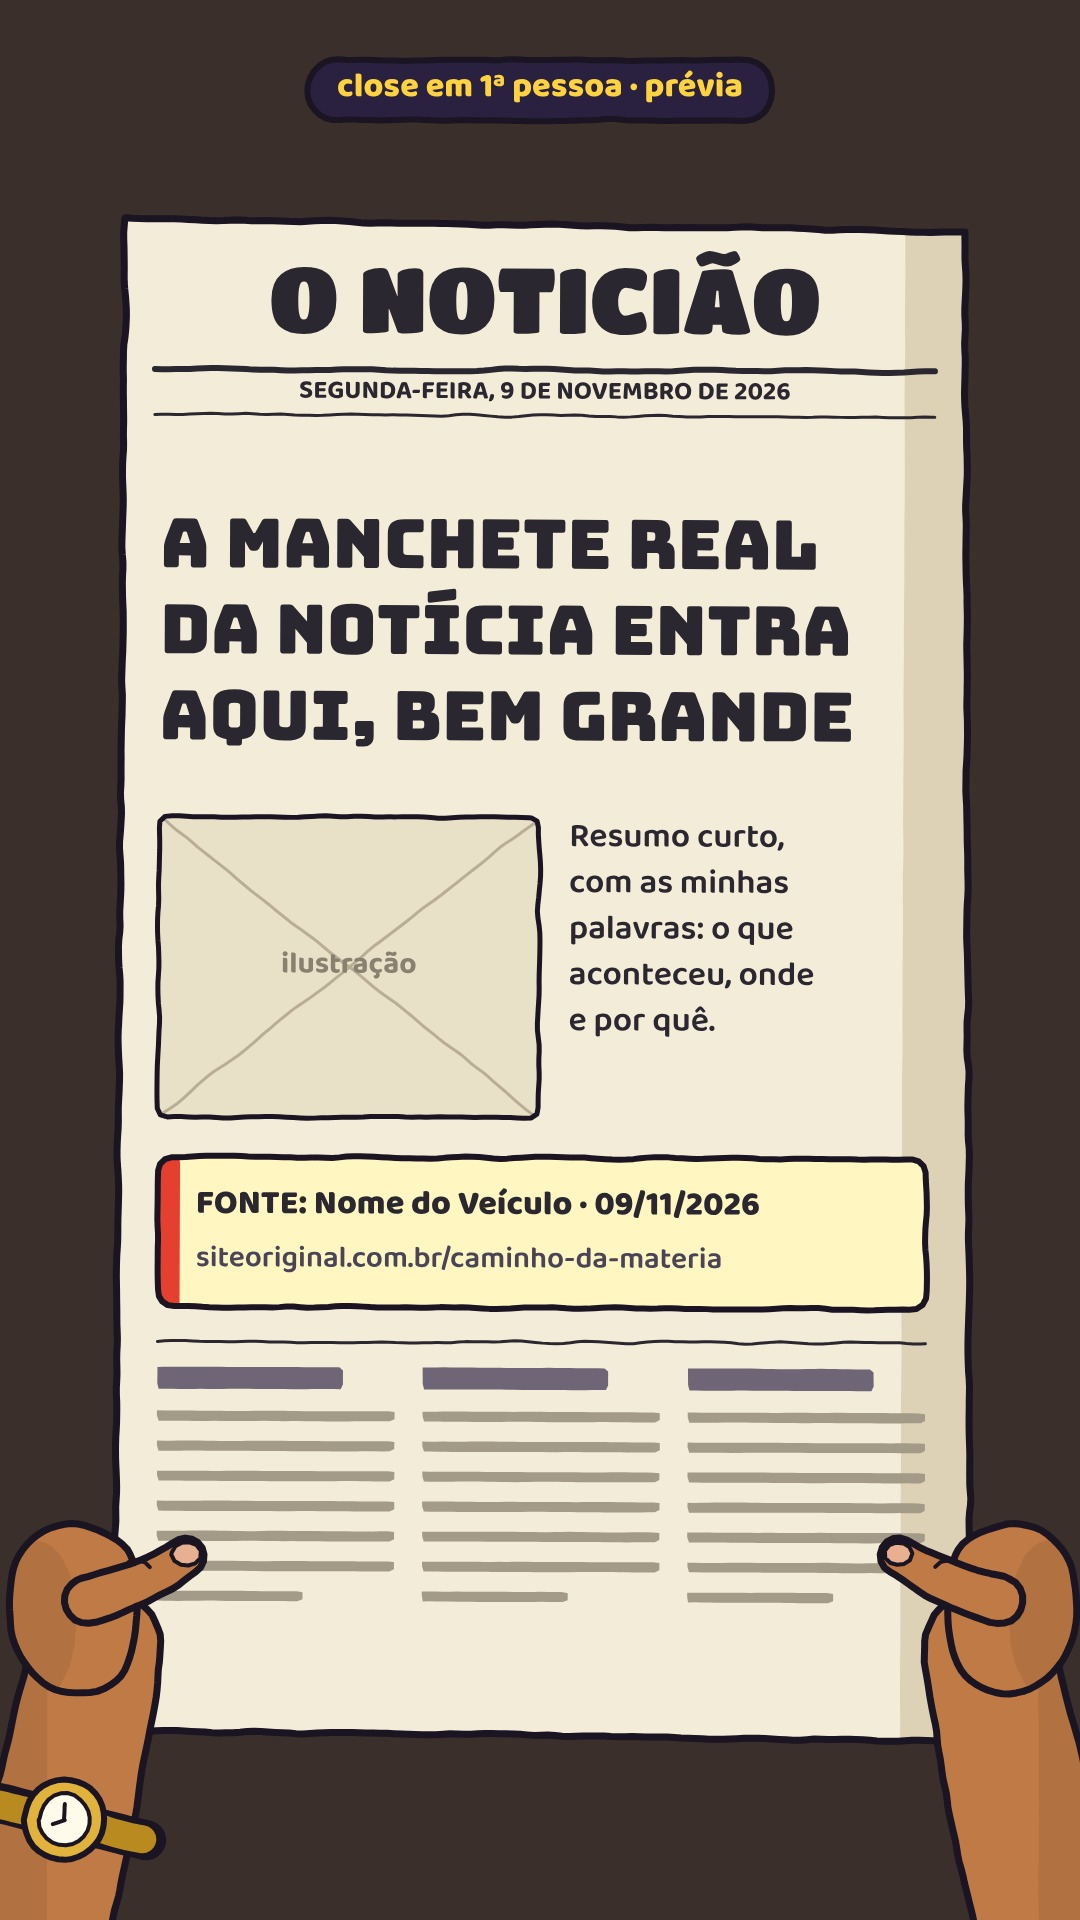
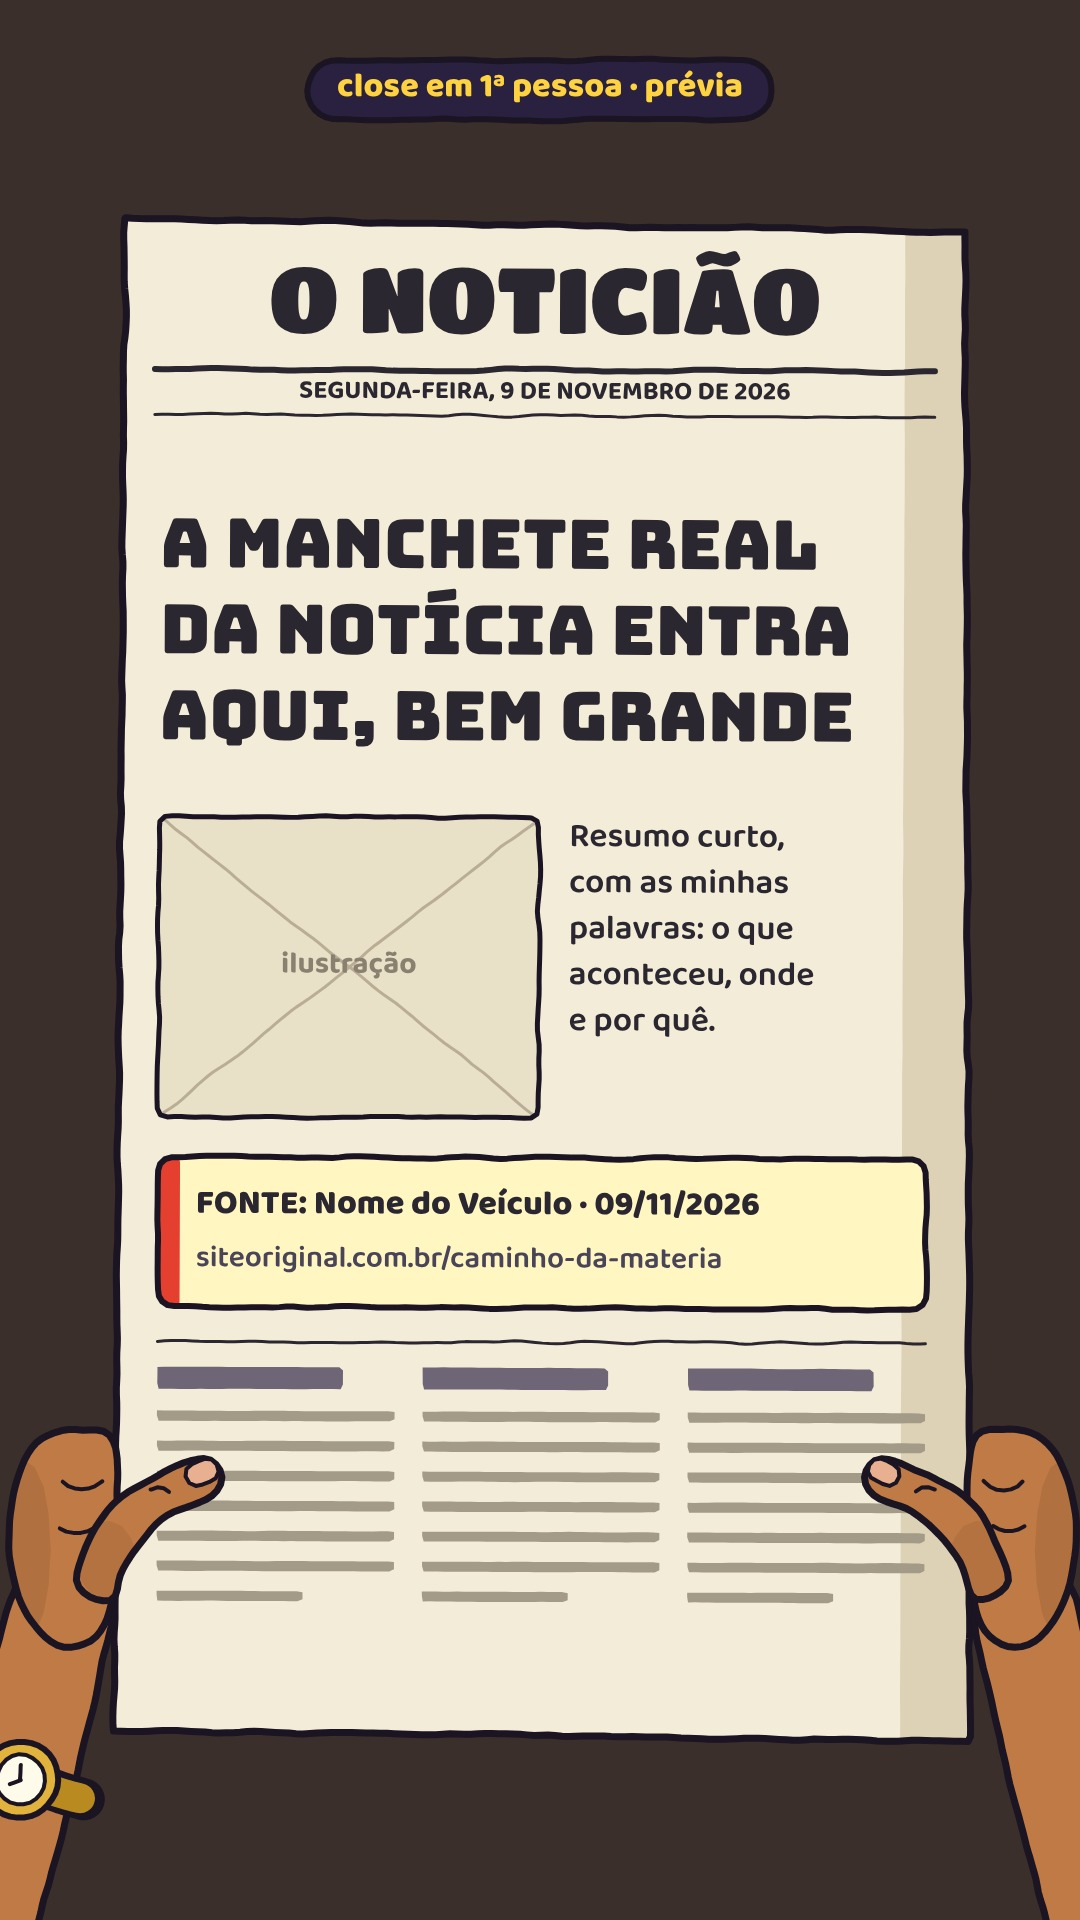
Redraw the old man's hands holding the newspaper
Wide shot: arms go behind the paper, forearms stand at the sides and only
the four fingers fold over the edge. Close-up: smaller forearms, side of
the hand outside the edge and a jointed thumb with a nail on the page.

Claude-Session: https://claude.ai/code/session_01Vj4AmTyz2VXWMZUhwj9hEg

Changed region(s): [[0.0, 0.7188, 0.2139, 1.0], [0.7944, 0.7188, 1.0, 1.0]]

diff --git a/jornal/cast.js b/jornal/cast.js
@@ -161,9 +161,32 @@ export function seu(P) {
   mouth(0, -8, 54, P.mouth || { o: .12, sm: .4 });
   stroke(arc(0, 6, 46, 26, Math.PI * .25, Math.PI * .75, 10), 4); // queixo duplo
   pop();
-  if (P.paper) { jornalAberto({ x: 0, y: b - 110, s: 1, t: P.t }); drawArm(shB, armB, true); }
-  drawArm(shF, armF, false);
+  if (P.paper) seguraJornal(b, P.t);
+  else drawArm(shF, armF, false);
   pop();
+}
+
+// segurando o jornal aberto (plano geral): ombros à vista, braços atrás do papel, antebraços em pé pelas laterais,
+// e do lado de cá do papel aparecem só os quatro dedos dobrados sobre a borda (o polegar fica do lado dele)
+function seguraJornal(b, t) {
+  const yH = b - 168;
+  for (const sx of [-1, 1]) shape(noodle([sx * 110, b - 244], [sx * 318, b + 4], sx * 30, 46, 40), { fill: PAL.sSkin, lw: 7 });
+  for (const sx of [-1, 1]) shape(noodle([sx * 326, b + 10], [sx * 322, yH + 20], 0, 42, 36), { fill: PAL.sSkin, lw: 7, shade: () => fillOnly(rect(sx > 0 ? 330 : -360, b - 300, 30, 360), PAL.sSkinS, { boil: .3, alpha: .6 }) });
+  jornalAberto({ x: 0, y: b - 110, s: 1, t });
+  for (const sx of [-1, 1]) {
+    // costas da mão, por fora da borda
+    shape(spline([[sx * 300, yH - 34], [sx * 330, yH - 40], [sx * 350, yH - 14], [sx * 348, yH + 24], [sx * 326, yH + 40], [sx * 302, yH + 34]]), { fill: PAL.sSkin, lw: 7, shade: () => fillOnly(ell(sx * 342, yH, 12, 40, 12), PAL.sSkinS, { boil: .3, alpha: .6 }) });
+    // quatro dedos dobrados por cima da borda do papel
+    for (let k = 0; k < 4; k++) {
+      const fy = yH - 26 + k * 18, len = [30, 36, 34, 26][k];
+      shape(rr(sx > 0 ? 300 - len : -300, fy - 8, len + 6, 17, 8), { fill: PAL.sSkin, lw: 5 });
+      fillOnly(ell(sx * (300 - len + 7), fy, 4, 5, 8), '#e8b090', { boil: .2 });
+    }
+  }
+  // relógio dourado no pulso esquerdo (dele), visível pela lateral
+  const wx = -326, wy = yH + 74;
+  stroke([[wx - 26, wy], [wx + 26, wy]], 24); stroke([[wx - 24, wy], [wx + 24, wy]], 13, { line: PAL.goldS });
+  shape(ell(wx - 6, wy, 15, 15, 16), { fill: PAL.gold, lw: 5 }); shape(ell(wx - 6, wy, 8, 8, 12), { fill: '#fffbea', lw: 3 });
 }
 
 // jornal aberto segurado na frente da barriga (plano geral)
@@ -542,23 +565,32 @@ export function jornalClose(P) {
     for (let k = 0; k < 7; k++) fillOnly(rect(-W2 + 36 + c * cw, fy + 254 + k * 30, k === 6 ? cw * .55 : cw - 28, 10), '#a39a88', { boil: .2 });
   }
   pop();
-  // mãos dele (morenas, relógio dourado no pulso esquerdo) segurando as laterais, longe do selo de fonte
+  // mãos dele segurando as laterais, vistas do lado de quem lê: polegar por cima do papel, dedos por trás,
+  // a lateral da mão e do indicador por fora da borda. Relógio dourado no pulso esquerdo. Longe do selo de fonte.
   for (const sx of [-1, 1]) {
-    push(); translate(540 + sway + sx * (W2 + 6), 980 + 640); scale(sx, 1);
-    shape(noodle([150, 520], [20, 30], -20, 170, 130), { fill: PAL.sSkin, lw: 7, shade: () => fillOnly(rect(70, -100, 300, 800), PAL.sSkinS, { boil: .3, alpha: .5 }) });
-    if (sx < 0) { // relógio: pulseira atravessando o antebraço + mostrador
-      const c = [52, 200], px = .97, py = -.24;
-      stroke([[c[0] - px * 84, c[1] - py * 84], [c[0] + px * 84, c[1] + py * 84]], 40);
-      stroke([[c[0] - px * 80, c[1] - py * 80], [c[0] + px * 80, c[1] + py * 80]], 28, { line: PAL.goldS });
-      shape(ell(c[0], c[1], 40, 40, 28), { fill: PAL.gold, lw: 6 });
-      shape(ell(c[0], c[1], 26, 26, 22), { fill: '#fffbea', lw: 4 });
-      stroke([[c[0], c[1]], [c[0], c[1] - 16]], 4); stroke([[c[0], c[1]], [c[0] + 12, c[1] + 4]], 4);
+    push(); translate(540 + sway + sx * (W2 + 6), 980 + 560); scale(sx, 1);
+    // antebraço
+    shape(noodle([200, 560], [56, 70], -16, 128, 104), { fill: PAL.sSkin, lw: 7, shade: () => fillOnly(rect(120, -100, 300, 800), PAL.sSkinS, { boil: .3, alpha: .55 }) });
+    if (sx < 0) {
+      const c = [96, 240], px = .956, py = -.293;
+      stroke([[c[0] - px * 66, c[1] - py * 66], [c[0] + px * 66, c[1] + py * 66]], 42);
+      stroke([[c[0] - px * 62, c[1] - py * 62], [c[0] + px * 62, c[1] + py * 62]], 30, { line: PAL.goldS });
+      shape(ell(c[0], c[1], 38, 38, 28), { fill: PAL.gold, lw: 6 });
+      shape(ell(c[0], c[1], 25, 25, 22), { fill: '#fffbea', lw: 4 });
+      stroke([[c[0], c[1]], [c[0], c[1] - 15]], 4); stroke([[c[0], c[1]], [c[0] + 11, c[1] + 4]], 4);
     }
-    // palma (por fora da borda) + polegar por cima do papel
-    shape(spline([[-10, -70], [50, -96], [100, -60], [104, 20], [60, 70], [0, 60], [-20, 0]]), { fill: PAL.sSkin, lw: 7, shade: () => fillOnly(ell(80, 0, 40, 80, 20), PAL.sSkinS, { boil: .3, alpha: .5 }) });
-    shape(noodle([30, -20], [-70, -64], -10, 46, 36), { fill: PAL.sSkin, lw: 7 });
-    shape(ell(-70, -66, 14, 11, 12), { fill: '#e8b090', lw: 4 });
-    stroke(arc(-20, -50, 14, 10, Math.PI * 1.1, Math.PI * 1.7, 6), 4);
+    // mão: lateral do indicador dobrando atrás da borda + palma
+    shape(spline([[2, -92], [36, -110], [76, -100], [100, -60], [108, 0], [96, 62], [62, 104], [20, 96], [2, 40]]), {
+      fill: PAL.sSkin, lw: 7, shade: () => { fillOnly(ell(92, 10, 26, 90, 16), PAL.sSkinS, { boil: .3, alpha: .55 }); }
+    });
+    stroke(arc(34, -66, 22, 16, Math.PI * .15, Math.PI * .85, 8), 4);  // dobra do indicador
+    stroke(arc(40, -20, 20, 12, Math.PI * .2, Math.PI * .8, 8), 4);    // dobra do médio
+    // polegar: base gordinha, junta, ponta com unha
+    shape(spline([[40, 40], [10, -30], [-40, -64], [-86, -82], [-104, -66], [-94, -44], [-50, -24], [-10, 20], [6, 60]]), { fill: PAL.sSkin, lw: 7, shade: () => fillOnly(ell(10, 20, 30, 40, 12), PAL.sSkinS, { boil: .3, alpha: .4 }) });
+    push(); translate(-84, -66); rotate(.42);
+    shape(rr(-18, -12, 32, 22, 10), { fill: '#e8b090', lw: 4 });
+    pop();
+    stroke(arc(-42, -44, 12, 10, Math.PI * 1.15, Math.PI * 1.75, 6), 4); // vinco da junta
     pop();
   }
 }
